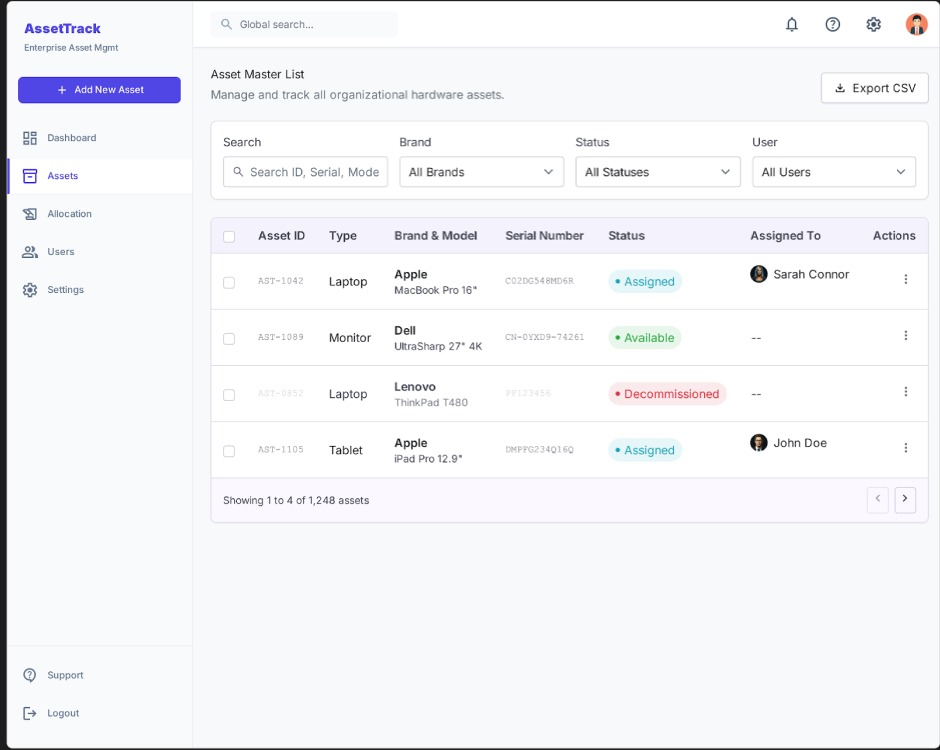
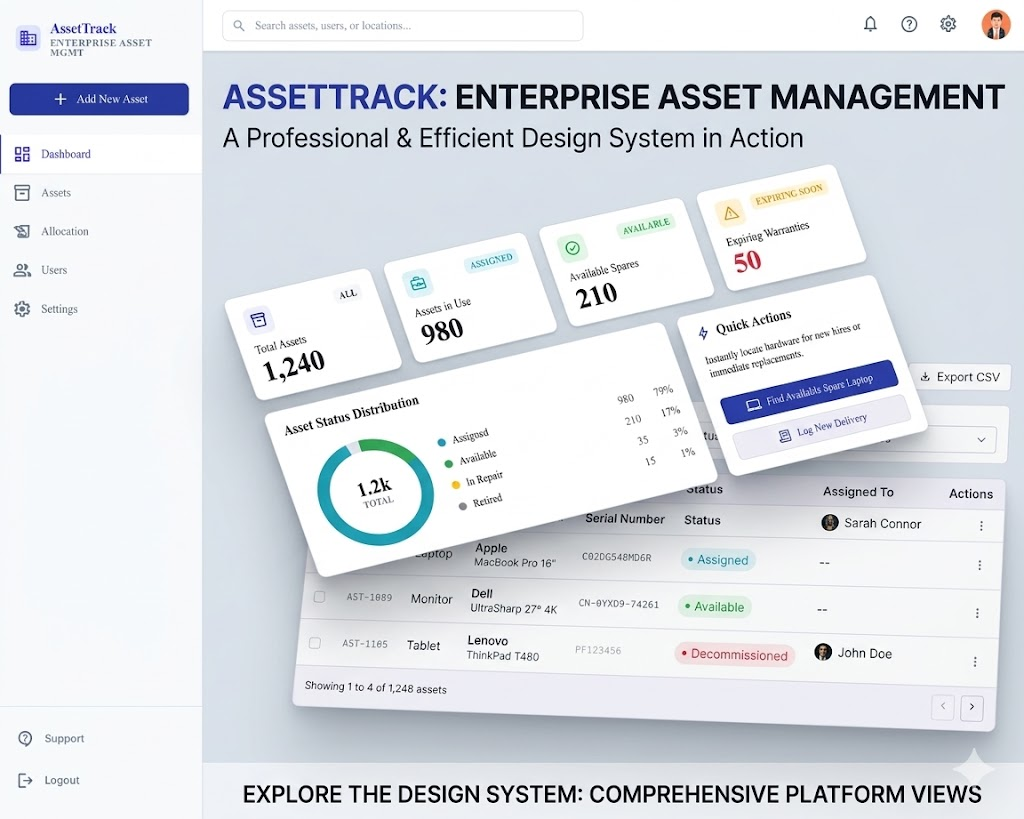
docs: update README for improved clarity and structure; add feature highlights and local development instructions

diff --git a/README.md b/README.md
@@ -1,28 +1,61 @@
-# AssetTrack
-Asset tracking system with role-based access control.
+# 📦 AssetTrack
 
-## Local Development (Host Backend + Docker DB)
+<div align="center">
+  <h3>Enterprise-Grade Asset Tracking & Management System</h3>
+  <br />
+  <img src="./image.png" alt="AssetTrack Demonstration" width="800" />
+</div>
 
-1) Start the database only: `make db` (or `docker-compose up -d postgres pgadmin`)
-	- PostgreSQL runs on localhost:5432.
-	- pgAdmin is available at http://localhost:8081 (Login: admin@assettrack.com / admin).
-2) Optional email alerts (host backend):
-	- Copy [.env.example](.env.example) to `.env` and fill in Mailtrap values.
-3) Run the backend: `make backend`
-	- Loads `.env.local` if present and generates RSA keys if missing.
-4) Run the frontend: `cd frontend && npm install && npm run dev`
+**AssetTrack** is a comprehensive, enterprise-grade asset tracking system built with a robust Spring Boot backend and a modern React frontend. It features role-based access control, condition reporting, automated low-stock alerts, and much more.
 
-If you want to store keys elsewhere, set `RSA_PRIVATE_KEY_LOCATION` and `RSA_PUBLIC_KEY_LOCATION` (for example, `file:/absolute/path/private_pkcs8.pem`).
+---
 
-## Docker (Backend + Postgres)
+## 🚀 Features
+- **Role-Based Access Control**: Granular permissions for Admins, Managers, and Developers.
+- **Asset Lifecycle Management**: Track assets from procurement to decommissioning.
+- **Condition Reports**: Log issues, track repairs, and manage warranty statuses.
+- **Automated Notifications**: Get alerted for low stock and expiring warranties via email (Mailtrap) and in-app notifications.
 
-Run everything with Docker Compose:
+---
+
+## 🛠 Local Development (Host Backend + Docker DB)
+
+1) **Start the database only:** 
+   ```bash
+   make db
+   ```
+   *(or `docker-compose up -d postgres pgadmin`)*
+   - PostgreSQL runs on `localhost:5432`.
+   - pgAdmin is available at [http://localhost:8081](http://localhost:8081) *(Login: `admin@assettrack.com` / `admin`)*.
+
+2) **Optional email alerts (host backend):**
+   - Copy [.env.example](.env.example) to `.env` and fill in Mailtrap values.
+
+3) **Run the backend:** 
+   ```bash
+   make backend
+   ```
+   - Loads `.env.local` if present and generates RSA keys if missing.
+
+4) **Run the frontend:** 
+   ```bash
+   make frontend
+   ```
+   *(OR `cd frontend && npm install && npm run dev`)*
+
+> **Key Management Note:** If you want to store keys elsewhere, set `RSA_PRIVATE_KEY_LOCATION` and `RSA_PUBLIC_KEY_LOCATION` (for example, `file:/absolute/path/private_pkcs8.pem`).
+
+---
+
+## 🐳 Docker (Backend + Postgres)
+
+Run everything seamlessly with Docker Compose:
 
 ```bash
 docker-compose up -d
 ```
 
-Notes:
+**Notes:**
 - Compose loads variables from `.env` at the repo root.
 - Copy [.env.example](.env.example) to `.env` and fill values before running.
 - The backend container auto-generates RSA keys on first start and stores them in a named volume.
@@ -30,30 +63,52 @@ Notes:
 - Optional mail settings are picked up from `.env` if present.
 
 If you only want the database in Docker and run the backend on the host:
-
 ```bash
 docker-compose up -d postgres pgadmin
 ```
 
-## Mailtrap (Email Testing)
+---
 
-1) Create a shared inbox in Mailtrap and invite the team to the workspace.
+## 🧪 Database Seeding (Demonstration Data)
+
+To quickly test the application with realistic data, we use the **`DatabaseSeeder`** component.
+
+It populates the database with:
+- **Users**: Admin, Managers, and Developers. *(e.g., login as `alice.admin@company.com` with password `Admin@1234`)*
+- **Assets**: Laptops, Monitors, Keyboards, Mice, etc.
+- **Allocations**: Historical and active asset assignments.
+- **Condition Reports & Notifications**: To demonstrate alerting and repair flows.
+
+### How to activate the Seeder:
+The seeder runs automatically when the `dev` or `seed` Spring profile is active.
+```properties
+spring.profiles.active=dev
+```
+*You can view the exact data generated or customize it by checking the file:*
+👉 **[`backend/src/main/java/com/assettrack/config/DatabaseSeeder.java`](backend/src/main/java/com/assettrack/config/DatabaseSeeder.java)**
+
+---
+
+## 📧 Mailtrap (Email Testing)
+
+1) Create a shared inbox in [Mailtrap](https://mailtrap.io) and invite the team to the workspace.
 2) Use the shared SMTP credentials locally (do not commit them).
-	- Copy [.env.example](.env.example) to `.env`.
-3) Environment variables used by the app:
-	- `MAILTRAP_HOST` (default: `sandbox.smtp.mailtrap.io`)
-	- `MAILTRAP_PORT` (default: `2525`)
-	- `MAILTRAP_USERNAME`
-	- `MAILTRAP_PASSWORD`
-	- Optional: `MAIL_FROM` (default: `no-reply@assettrack.local`)
-	- Optional: `ALERTS_RECIPIENT_EMAIL` (defaults to `admin@assettrack.com`)
-
+   - Copy [.env.example](.env.example) to `.env`.
+3) **Environment variables used by the app:**
+   - `MAILTRAP_HOST` (default: `sandbox.smtp.mailtrap.io`)
+   - `MAILTRAP_PORT` (default: `2525`)
+   - `MAILTRAP_USERNAME`
+   - `MAILTRAP_PASSWORD`
+   - *Optional:* `MAIL_FROM` (default: `no-reply@assettrack.local`)
+   - *Optional:* `ALERTS_RECIPIENT_EMAIL` (defaults to `admin@assettrack.com`)
 4) Email alerts are sent by the low-stock scheduled job in `AlertService`.
-	- To test quickly, create low-stock items and set `ALERTS_RECIPIENT_EMAIL` to a test address.
+   - To test quickly, create low-stock items and set `ALERTS_RECIPIENT_EMAIL` to a test address.
 
-## Token Helper
+---
 
-Use the helper script to get a JWT for Swagger:
+## 🔐 Token Helper
+
+Use the helper script to quickly get a JWT for Swagger testing:
 
 ```bash
 ./backend/scripts/get-token.sh
@@ -61,19 +116,20 @@ Use the helper script to get a JWT for Swagger:
 
 It will login or auto-register (default email `dev@assettrack.local`, password `ChangeMe123`).
 
-Common options:
-
+**Common options:**
 ```bash
 ./backend/scripts/get-token.sh --email user@company.com --password "MyPass123"
 ASSETTRACK_EMAIL=user@company.com ASSETTRACK_PASSWORD=MyPass123 ./backend/scripts/get-token.sh
 ./backend/scripts/get-token.sh --print-header
 ```
 
-Swagger UI: `http://localhost:8080/swagger-ui/index.html` → Authorize → paste the token (or the `Authorization: Bearer ...` header).
+**Swagger UI Authentication:** Go to `http://localhost:8080/swagger-ui/index.html` → **Authorize** → paste the token (or the `Authorization: Bearer ...` header).
 
-## Convenience Commands
+---
 
-Use Make targets from the repo root:
+## 🛠 Convenience Commands
+
+Use Make targets from the repo root for a smoother developer experience:
 
 ```bash
 make db
@@ -82,17 +138,21 @@ make frontend
 make docker
 ```
 
-Notes:
+**Notes:**
 - `make backend` loads `.env` via `scripts/load-env.sh` if it exists.
 - `make backend` also runs `backend/scripts/ensure-rsa-keys.sh` to generate keys if missing.
 - Run `make backend` and `make frontend` in separate terminals.
 
+---
+
 ## 📖 API Documentation
 
-The API is documented using the OpenAPI 3.0 specification. You can view the interactive Swagger UI documentation here:
-[https://AhmedShehab1.github.io/AssetTrack/docs/](https://AhmedShehab1.github.io/AssetTrack/docs/)
+The API is strictly documented using the OpenAPI 3.0 specification. You can view the interactive Swagger UI documentation here:
+**[https://AhmedShehab1.github.io/AssetTrack/](https://AhmedShehab1.github.io/AssetTrack/)**
 
-## API Testing with Schemathesis
+---
+
+## 🛡 API Testing with Schemathesis
 
 We use property-based testing with [Schemathesis](https://schemathesis.io/) to ensure our Spring Boot implementation strictly adheres to our OpenAPI specification. This approach automatically generates hundreds of test cases to catch edge cases, validation errors, and conformance issues.
 
@@ -105,7 +165,3 @@ You can run the API tests locally using Docker:
 ```bash
 docker run schemathesis/schemathesis:stable run http://shehabtech.me/AssetTrack --schema ./docs/openapi.yaml
 ```
-
-### GitHub Actions
-
-Schemathesis tests run automatically on every push and pull request to the `main` branch. You can view the results and detailed Schema Coverage reports in the **Actions** tab of the repository.
